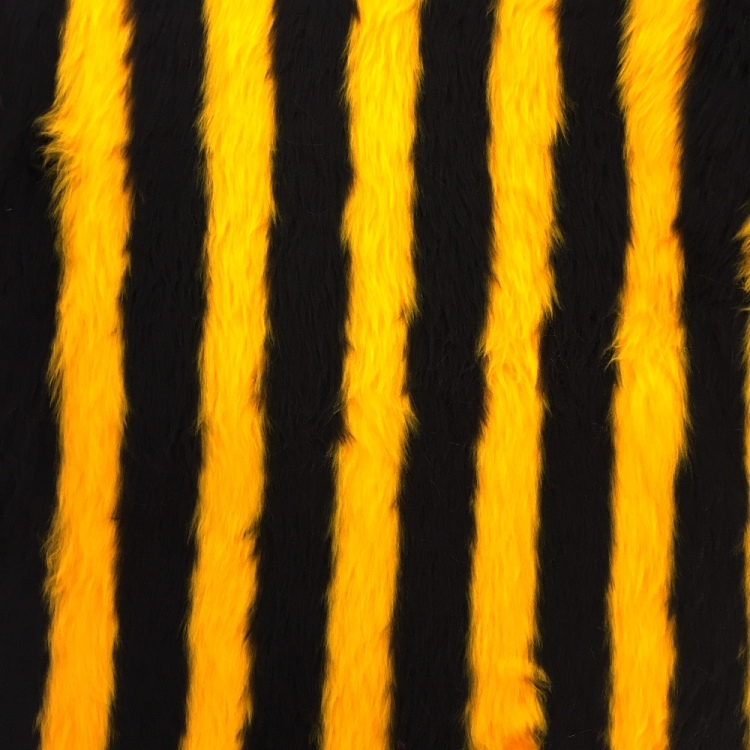
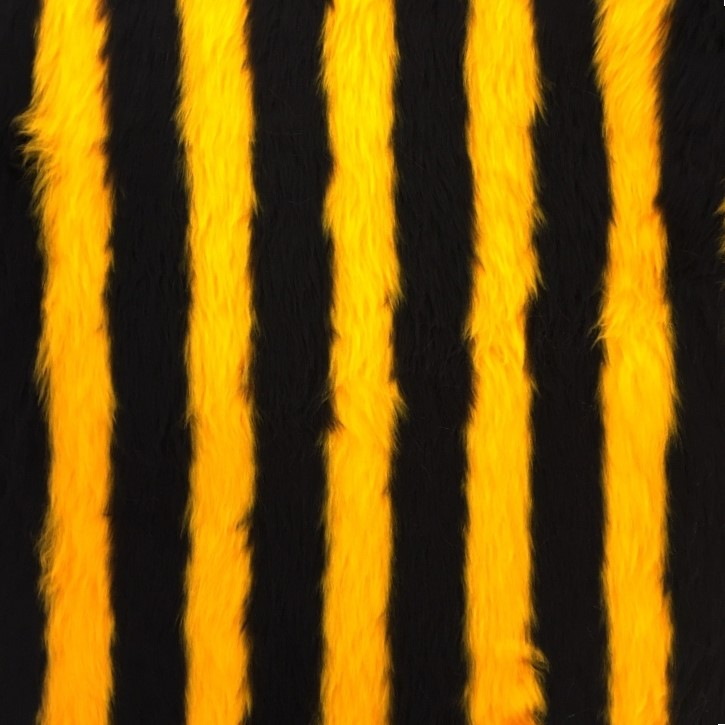
Changed bee textures

diff --git a/project/objects/MyBee/MyBee.js b/project/objects/MyBee/MyBee.js
@@ -9,23 +9,34 @@ import { MyCylinder } from "../../primitives/MyCylinder.js";
  * @param scene - Reference to MyScene object
  */
 export class MyBee extends CGFobject {
-    constructor(scene, texture) {
+    constructor(scene, textureHead, textureBody, textureAbdomen) {
         super(scene);
         this.head = new MySphere(scene, 16, 16);
         this.antenna = new MyCylinder(scene, 16, 16);
-        this.torax = new MyEllipsoid(scene, 16, 16, [1.4, 1.2, 1.3]);
-        this.abdomen = new MyEllipsoid(scene, 16, 16, [1.4, 1.2, 3.0]);
-        this.texture = texture;
+        this.leg = new MyCylinder(scene, 16, 16);
+        this.torax = new MyEllipsoid(scene, 16, 16, [1.3, 1.2, 1.7]);
+        this.abdomen = new MyEllipsoid(scene, 16, 16, [1.2, 1.2, 1.3]);
 
-        this.material = new CGFappearance(scene);
-        this.material.setEmission(1, 1, 1, 1);
-        this.material.setTexture(texture);
-        this.material.setTextureWrap('REPEAT', 'REPEAT');
+        this.headMaterial = new CGFappearance(scene);
+        this.headMaterial.setEmission(1, 1, 1, 1);
+        this.headMaterial.setTexture(textureHead);
+        this.headMaterial.setTextureWrap('REPEAT', 'REPEAT');
+
+        this.bodyMaterial = new CGFappearance(scene);
+        this.bodyMaterial.setEmission(1, 1, 1, 1);
+        this.bodyMaterial.setTexture(textureBody);
+        this.bodyMaterial.setTextureWrap('REPEAT', 'REPEAT');
+
+        this.abdomenMaterial = new CGFappearance(scene);
+        this.abdomenMaterial.setEmission(1, 1, 1, 1);
+        this.abdomenMaterial.setTexture(textureAbdomen);
+        this.abdomenMaterial.setTextureWrap('REPEAT', 'REPEAT');
+
     }
 
     display() {
         this.scene.pushMatrix();
-        this.material.apply();
+        this.headMaterial.apply();
 
         //Display the head
         this.scene.pushMatrix();
@@ -33,7 +44,24 @@ export class MyBee extends CGFobject {
         this.head.display();
         this.scene.popMatrix();
 
-        // Display the left antenna
+        // Display the right leg
+        this.scene.pushMatrix();
+        this.scene.rotate(Math.PI / 3, 1, 0, 0);
+        this.scene.translate(-0.5, -1.5, 0.5);
+        this.scene.scale(0.02, 0.02, 0.8);
+        this.leg.display();
+        this.scene.popMatrix();
+
+        // Display the abdomen
+        this.abdomenMaterial.apply();
+        this.scene.pushMatrix();
+        this.scene.translate(0, -0.6, 2.5);
+        this.abdomen.display();
+        this.scene.popMatrix();
+
+        this.bodyMaterial.apply();
+
+        // Display the right antenna
         this.scene.pushMatrix();
         this.scene.translate(-0.8, 0.8, -2.3);
         this.scene.rotate(Math.PI / 4, Math.PI / 4, 1, 0);
@@ -41,7 +69,7 @@ export class MyBee extends CGFobject {
         this.antenna.display();
         this.scene.popMatrix();
 
-        // Display the right antenna
+        // Display the left antenna
         this.scene.pushMatrix();
         this.scene.translate(0.8, 0.8, -2.3);
         this.scene.rotate(-Math.PI / 4, -Math.PI / 4, 1, 0);
@@ -51,17 +79,10 @@ export class MyBee extends CGFobject {
 
         // Display the torax
         this.scene.pushMatrix();
-        this.scene.translate(0, 0, 0.5);
-        this.torax.display();
-        this.scene.popMatrix();
-
-        // Display the abdomen
-        this.scene.pushMatrix();
         this.scene.translate(0, -0.3, 1.5);
         this.scene.rotate(Math.PI / 12, 1, 0, 0);
-        this.abdomen.display();
-        this.scene.popMatrix();
-
+        this.torax.display();
         this.scene.popMatrix();
     }
+
 }

diff --git a/project/MyScene.js b/project/MyScene.js
@@ -45,8 +45,10 @@ export class MyScene extends CGFscene {
         this.rockset = new MyRockSet(this, 10, 10);
         this.hive = new MyHive(this, 10, 10);
 
-        this.beeTexture = new CGFtexture(this, "images/bee.jpeg");
-        this.bee = new MyBee(this, this.beeTexture);
+        this.beeHeadTexture = new CGFtexture(this, "images/bee1.png");
+        this.beeBodyTexture = new CGFtexture(this, "images/bee3.png");
+        this.beeAbdomenTexture = new CGFtexture(this, "images/bee4.png");
+        this.bee = new MyBee(this, this.beeHeadTexture, this.beeBodyTexture, this.beeAbdomenTexture);
         this.grass = new MyGrass(this, 10, 10);
 
         this.objects = [this.panorama, this.bee, this.flower, this.rock, this.rockset, this.hive, this.grass];
@@ -80,7 +82,7 @@ export class MyScene extends CGFscene {
         this.earthAppearance.setTextureWrap('REPEAT', 'REPEAT');
 
 
-        this.displayPanorama = false;
+        this.displayPanorama = true;
         this.displayFlower = false;
         this.displayRock = false;
         this.displayRockSet = false;
@@ -140,7 +142,8 @@ export class MyScene extends CGFscene {
 
         if (this.displayPanorama) {
             this.panorama.display();
-        } else if (this.displayBee) {
+        }
+        if (this.displayBee) {
             this.bee.display();
         } else {
             // Draw sky-sphere
